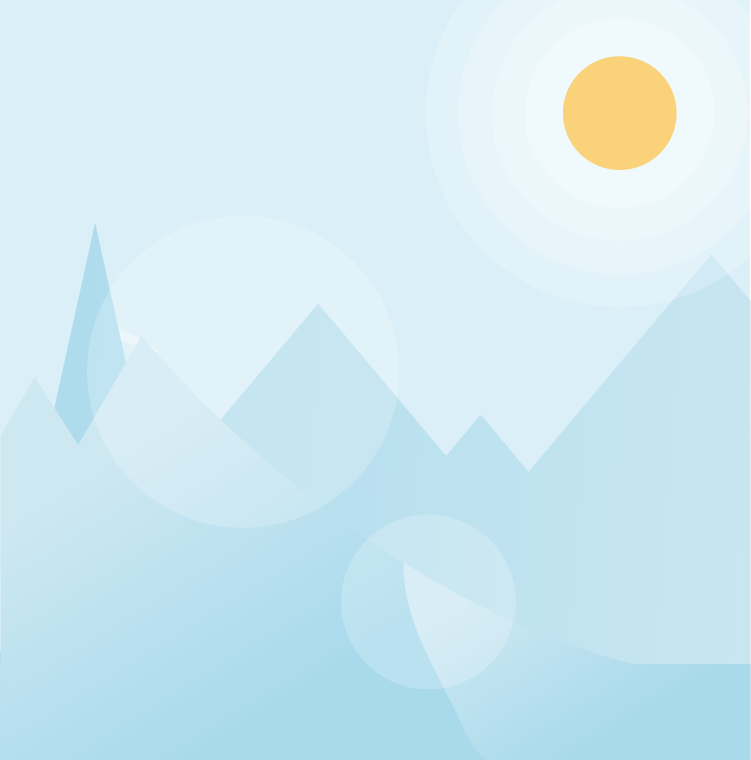
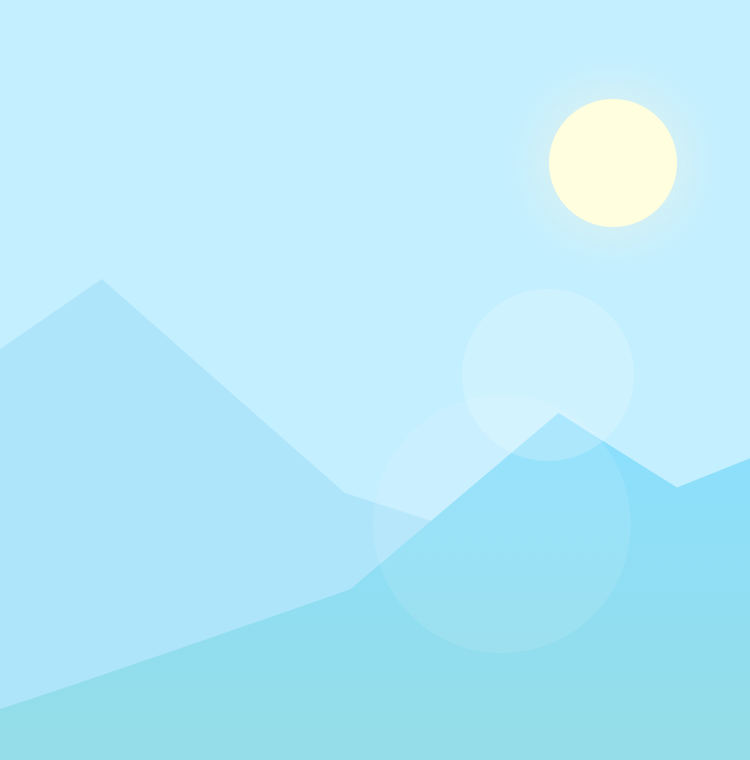
update

diff --git a/pages/index/index.js b/pages/index/index.js
@@ -1,1 +1,63 @@
-Page({})
+const weatherMap = {
+  'sunny': '晴天',
+  'cloudy': '多云',
+  'overcast': '阴',
+  'lightrain': '小雨',
+  'heavyrain': '大雨',
+  'snow': '雪'
+}
+
+const weatherColorMap = {
+  'sunny': '#cdeefd',
+  'cloudy': '#deeef6',
+  'overcast': 'c6ced2',
+  'lightrain': 'bdd5e1',
+  'heavyrain': 'c5ccd0',
+  'snow': '#aae1fc'
+}
+
+Page({
+  data: {
+    nowTemp: '',
+    nowWeather: '',
+    nowWeatherBackground: ''
+  },
+
+  onPullDownRefresh() {
+    this.getNow(() => {
+      wx.stopPullDownRefresh()
+    })
+  },
+
+  onLoad() {
+    this.getNow()
+  },
+
+  getNow(callback) {
+    wx.request({
+      url: 'https://test-miniprogram.com/api/weather/now',
+      data: {
+        "city": "广州市"
+      },
+      success: res => {
+        console.log(res)
+        let result = res.data.result
+        let temp = result.now.temp
+        let weather = result.now.weather
+        console.log(temp, weather)
+        this.setData({
+          nowTemp: temp + '°',
+          nowWeather: weatherMap[weather],
+          nowWeatherBackground: '/images/' + weather + '-bg.png'
+        })
+        wx.setNavigationBarColor({
+          backgroundColor: weatherColorMap[weather],
+          frontColor: '#000000',
+        })
+      },
+      complete: () => {
+        callback && callback()
+      }
+    })
+  }
+})
